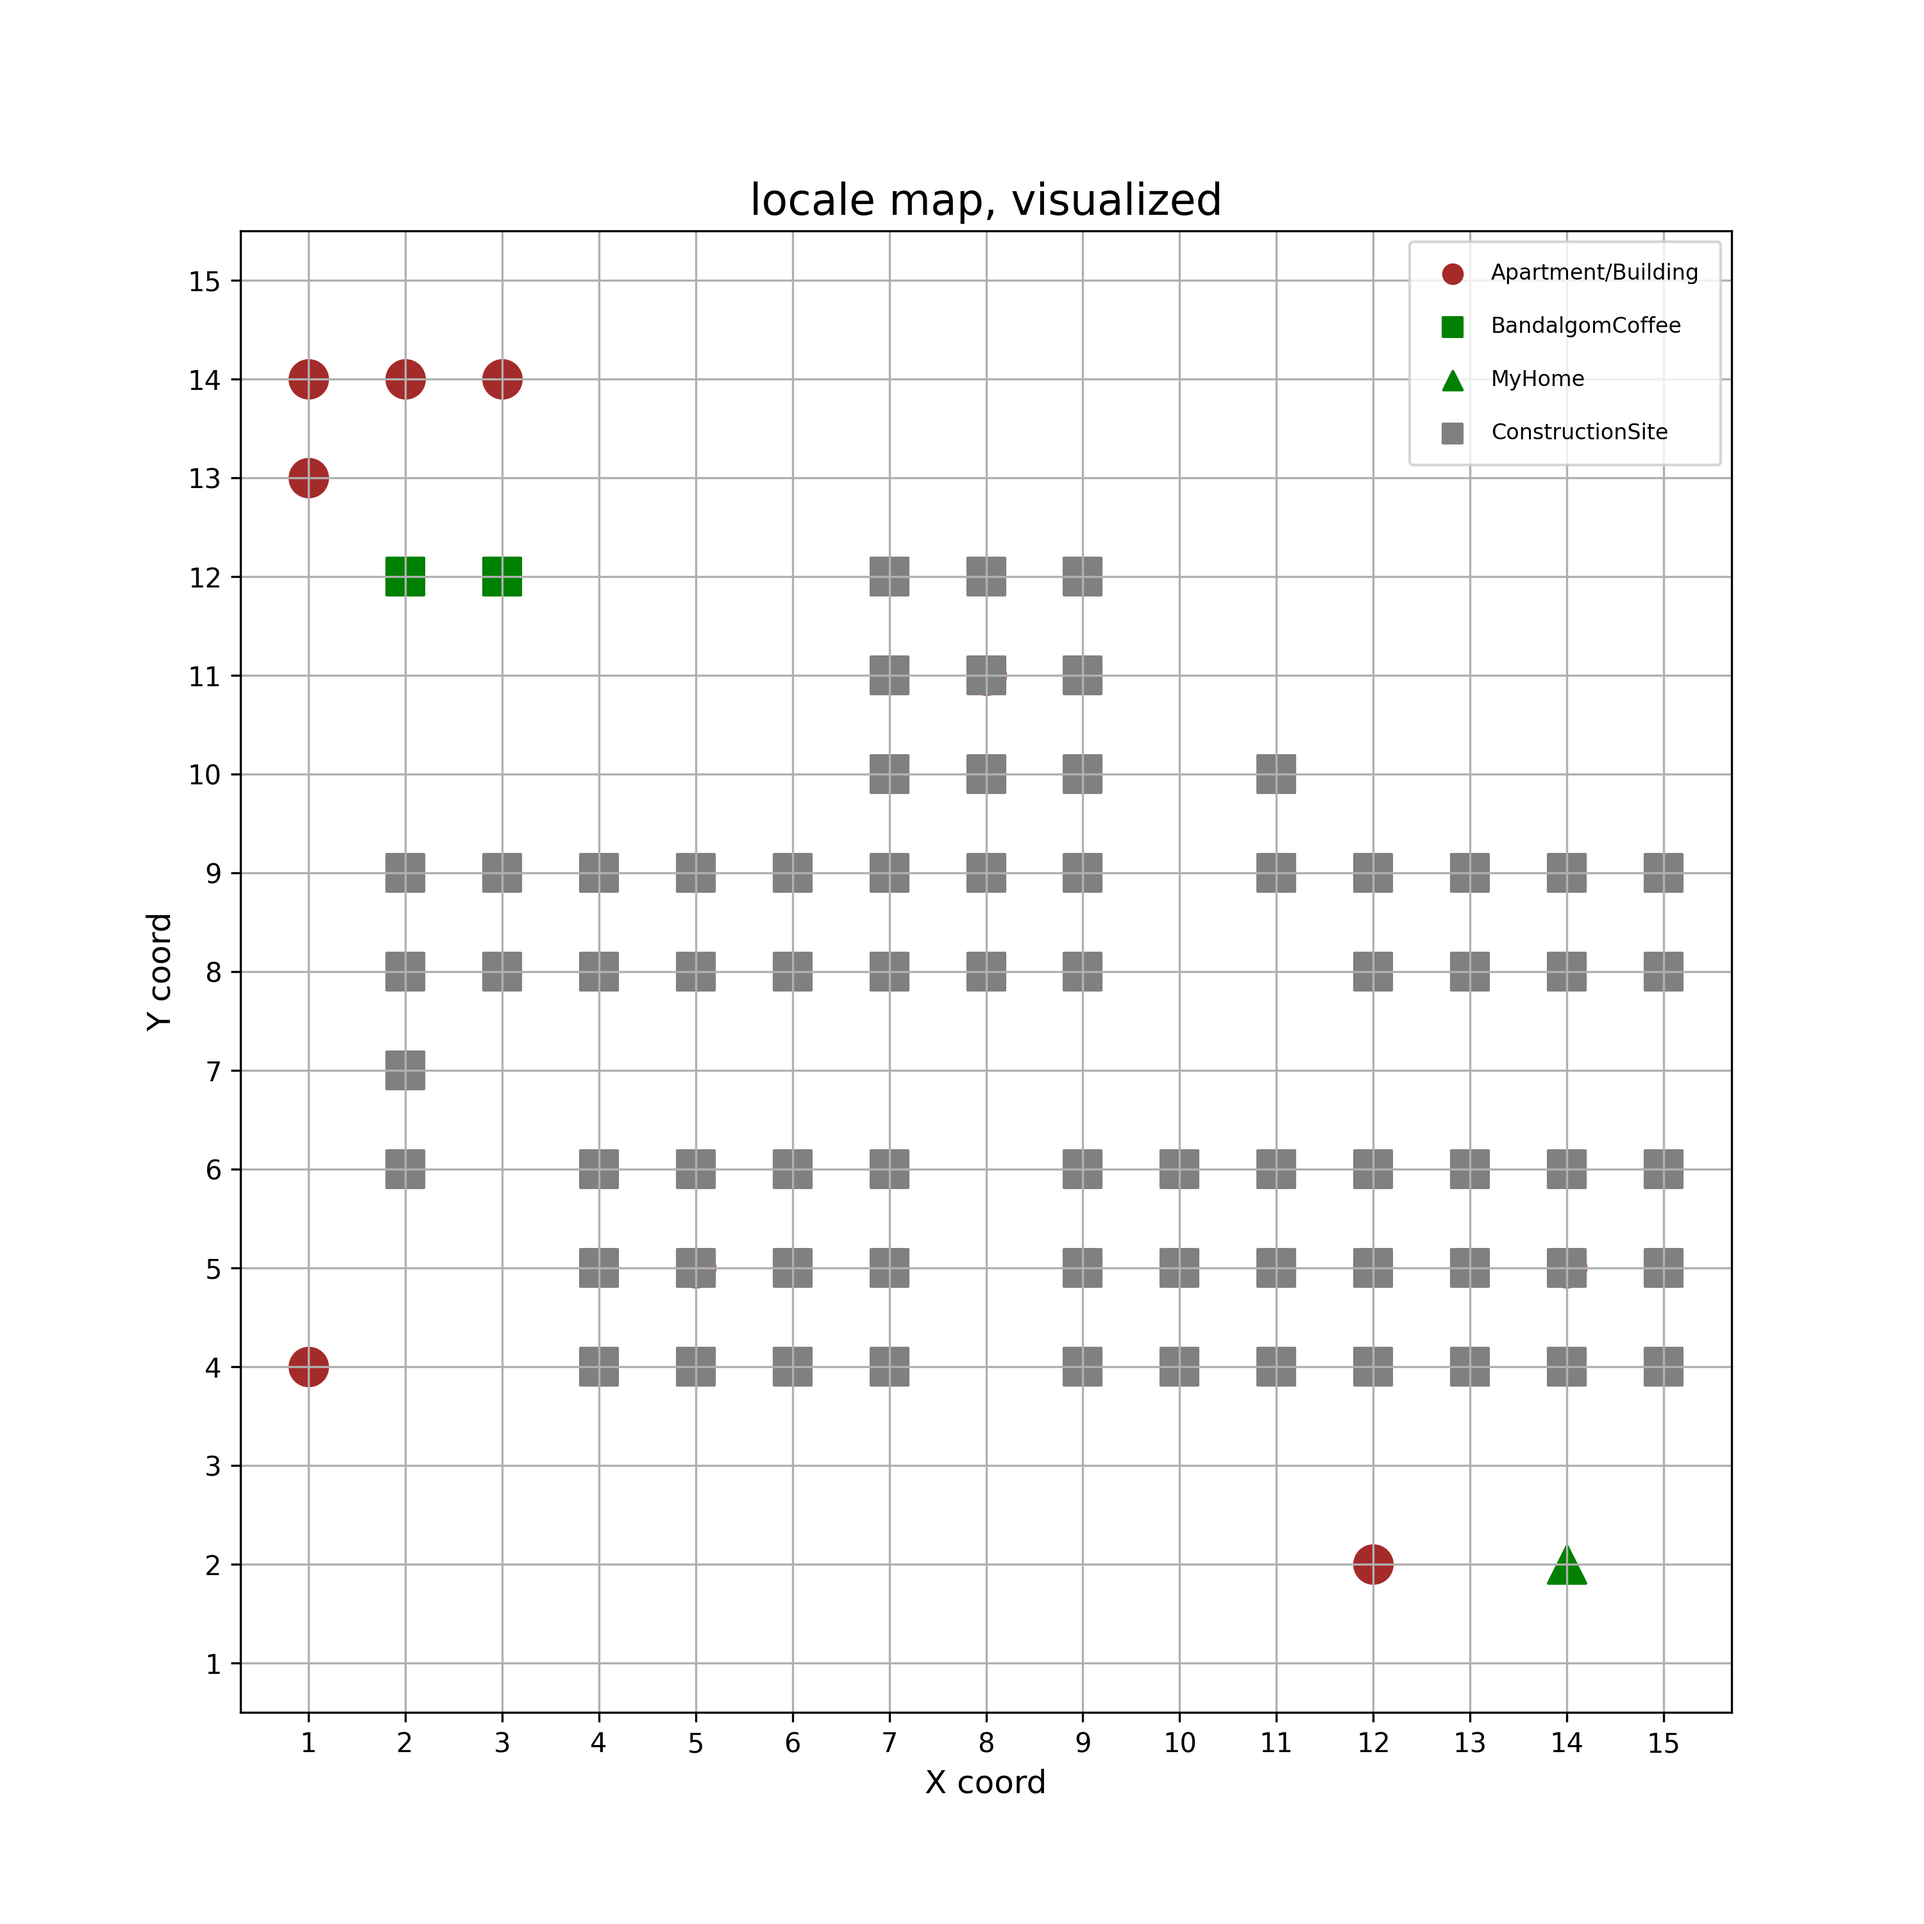
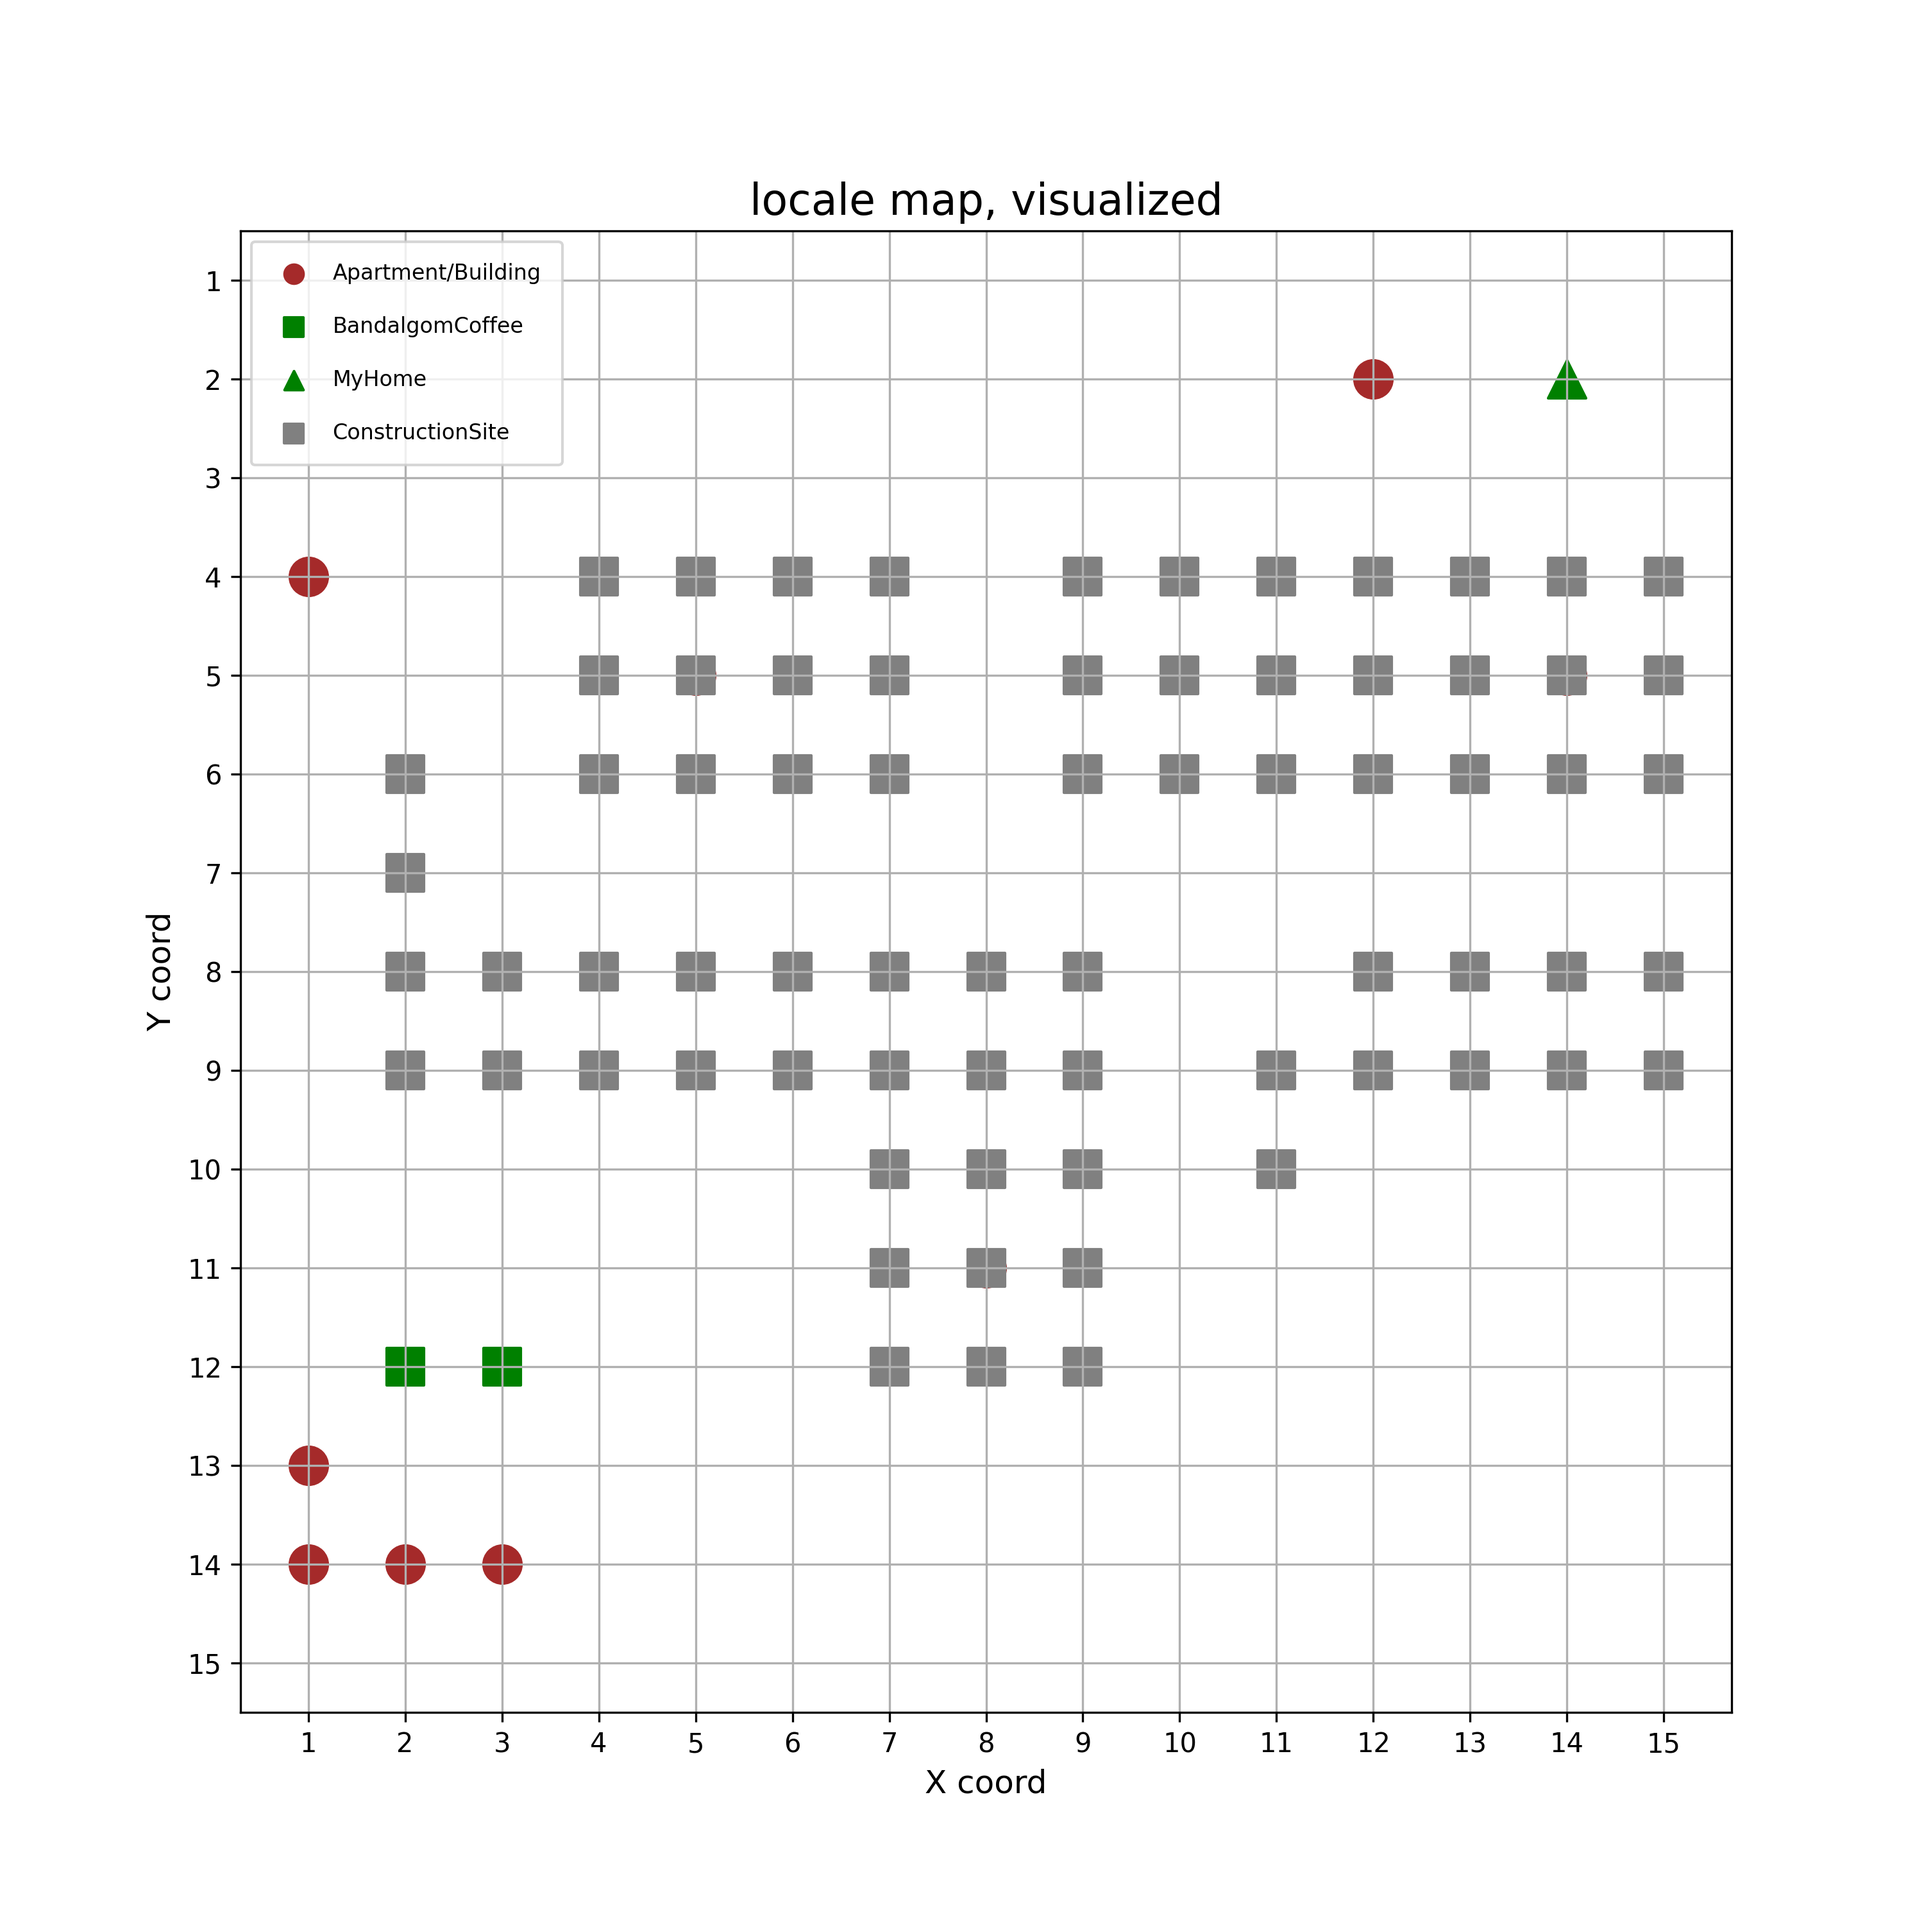
.

diff --git a/b.py b/b.py
@@ -1,0 +1,102 @@
+import pandas as pd
+import matplotlib.pyplot as plt
+# from coffe_map import Serching_Analysis
+from mas_map import merge_data
+
+def setup_coordinate_system(ax, data):
+    """
+    좌표계 설정: 좌측 상단이 (1,1), 우측 하단이 가장 큰 좌표
+    """
+    
+    # 데이터 범위 확인
+    x_min, x_max = data['x'].min(), data['x'].max()
+    y_min, y_max = data['y'].min(), data['y'].max()
+    
+    # y축을 뒤집어서 작은 값이 위쪽에 오도록 설정
+    ax.invert_yaxis()
+    
+    # 축 범위 설정 (여백 0.5 추가)
+    ax.set_xlim(x_min - 0.5, x_max + 0.5)
+    ax.set_ylim(y_max + 0.5, y_min - 0.5)
+    
+    # 축 라벨 및 제목 설정
+    ax.set_title('map Area-1')
+    ax.set_xlabel('X position (WEST ← → EAST)')
+    ax.set_ylabel('Y position (NORTH ↑ ↓ SOUTH)')
+    
+    # 격자 표시
+    ax.set_xticks(range(int(data['x'].min()), int(data['x'].max())+1))
+    ax.set_yticks(range(int(data['y'].min()), int(data['y'].max())+1))
+    ax.grid(which='major', linestyle='--', color='gray', linewidth=0.5)
+    
+    return x_min, x_max, y_min, y_max
+
+def mask_overlap(data):
+    overlap_data = data[data['ConstructionSite'] == 1][['x', 'y']]
+    mask = data.set_index(['x', 'y']).index.isin(overlap_data.set_index(['x', 'y']).index)
+    data.loc[mask, 'ConstructionSite'] = 1
+    data.loc[mask, 'category'] = ' etc'
+    return data
+
+def visualize_map(data):
+    
+    # 플롯 생성
+    fig, ax = plt.subplots(figsize=(10, 10))
+    
+    # 좌표계 설정
+    x_min, x_max, y_min, y_max = setup_coordinate_system(ax, data)
+    
+    # 카테고리별 데이터 저장
+    apartments_buildings = data[data['category'].isin(['Apartment', 'Building'])]
+    shops = data[data['category']=='BandalgomCoffee']
+    home = data[data['category']=='MyHome']
+    construction_sites = data[data['ConstructionSite']==1]
+
+    # 겹치는 구조물 건설 현장으로 변경
+    data = mask_overlap(data)
+    
+    # 아파트·빌딩 -> 갈색 원형
+    ax.scatter(apartments_buildings['x'], apartments_buildings['y'],
+               c='saddlebrown', marker='o', s=100, label=f"apartments and bulidings ({len(apartments_buildings)})")
+    
+    # 반달곰 커피점 -> 녹색 사각형
+    ax.scatter(shops['x'], shops['y'],
+               c='limegreen', marker='s', s=120, label=f"bandalgom coffee ({len(shops)})")
+    
+    # 집 -> 녹색 삼각형
+    ax.scatter(home['x'], home['y'],
+               c='green', marker='^', s=120, label="my_home")
+
+    # 건설현장 -> 회색 사각형
+    ax.scatter(construction_sites['x'], construction_sites['y'], 
+              c='lightgrey', s=140, alpha=0.8, marker='s',
+              label=f'construction_sites ({len(construction_sites)})', zorder=5)
+    
+    # 좌표계 확인용 모서리 점 표시
+    corners = [(x_min, y_min), (x_max, y_min), (x_min, y_max), (x_max, y_max)]
+    corner_labels = ['left_top', 'right_top', 'left_bottom', 'right_bottom']
+    
+    for i, (x, y) in enumerate(corners):
+        ax.plot(x, y, 'ko', markersize=8)
+        ax.annotate(f'{corner_labels[i]}\n({x},{y})', 
+                   (x, y), xytext=(10, 10), 
+                   textcoords='offset points', 
+                   fontsize=8, ha='left')
+    
+    # 범례 표시
+    ax.legend(loc='upper right', bbox_to_anchor=(1.0, 1.0))
+    
+    # 이미지 저장
+    fig.savefig('map.png', bbox_inches='tight', dpi=300)
+
+    # 레이아웃 조정
+    plt.tight_layout()
+    plt.show()
+    return fig, ax
+
+def main():
+    ori_data = merge_data()
+    visualize_map(ori_data)
+
+if __name__ == '__main__':
+    main()

diff --git a/map_draw.py b/map_draw.py
@@ -13,7 +13,7 @@ def draw_map(df_merge):
     ax.set_yticks(range(1, y_max + 1))
 
     ax.grid(True)
-
+    # TODO: 이거 좀 더 확인 필요함 / 운좋게 하나씩 잘려서, 0.5 씩 더해서 된 것일수도 있으니까, set_ylim 함수 역할 알아볼것
     ax.set_ylim(y_max + 0.5, 0.5)
 
     # 구조물 종류별 표시
@@ -39,9 +39,8 @@ def draw_map(df_merge):
     ax.set_ylabel('Y coord', fontsize=12)
 
     # 범례
-    # ax.legend()
     ax.legend(fontsize=8, markerscale=.5, borderpad=1, labelspacing=1.5)
-    ax.invert_yaxis()
+    # ax.invert_yaxis()
 
     # 이미지로 저장
     plt.savefig('map.png', dpi=300)
